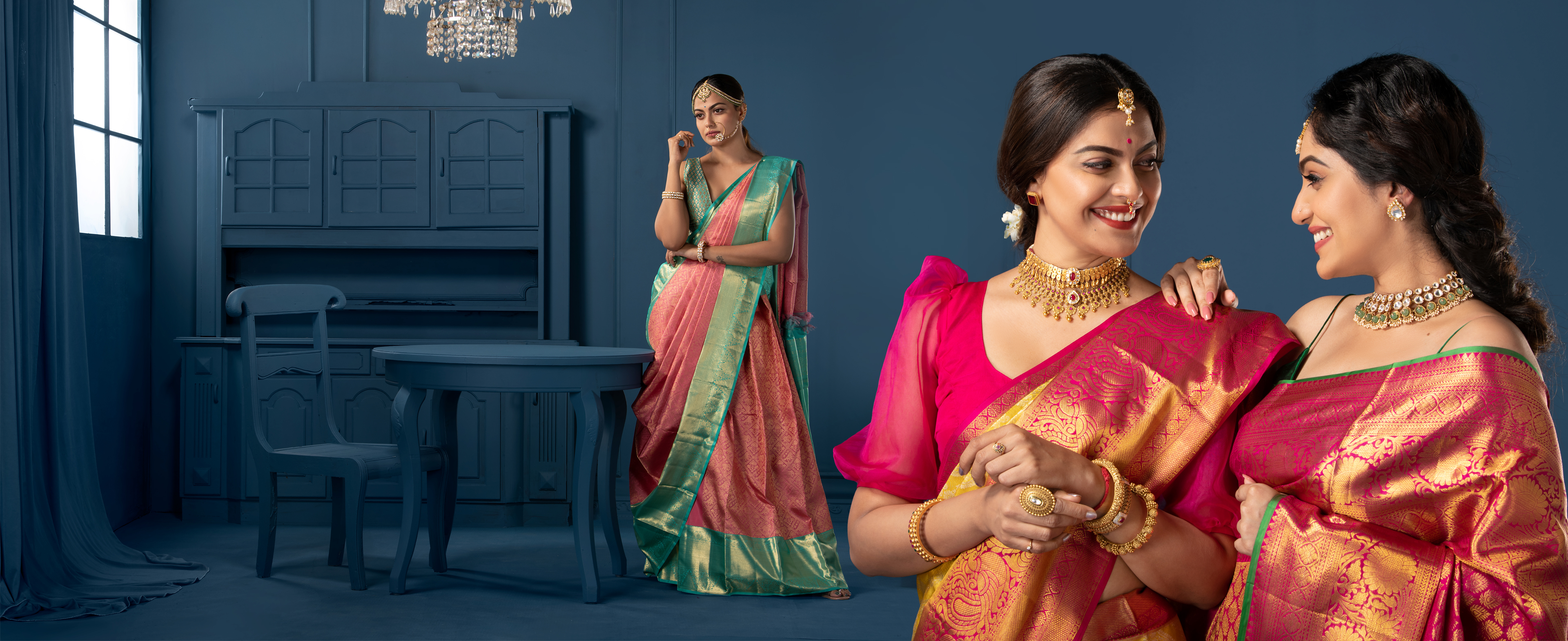
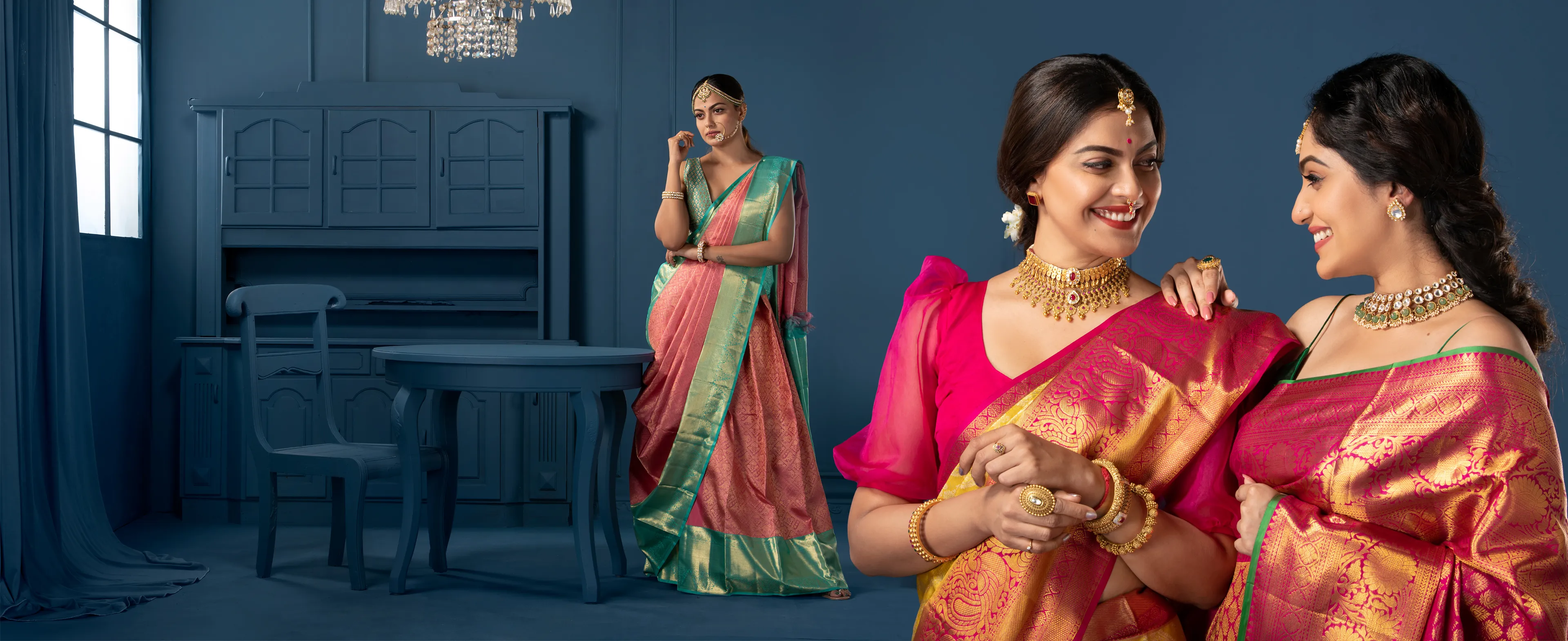
slider updated ,compression script

diff --git a/templates/app/home/kanchipuram.html b/templates/app/home/kanchipuram.html
@@ -1,32 +1,13 @@
 {% load static %}
-<div class="flex flex-col justify-center items-center p-4 my-8 mx-4">
-  <h1 class="text-3xl lg:text-4xl">KANCHIPURAM SILK</h1>
-<div class="carousel-container">
-  
-  <div class="carousel-slide">
-    <img src="{% static '/app/img/kanchipuram/1.jpg' %}" alt="">
-   <h1 class="text-2xl text-center">Pure Tissue Kanchipuram Silk</h1>
+<div class="flex flex-col justify-center items-center  my-8 mx-4">
+  <h1 class="text-2xl lg:text-4xl">KANCHPIURAM SILK</h1>
+  <div class="carousel-container">
+    {% for image in images_kanchipuram %}
+    <div class="carousel-slide border-2 flex flex-col justify-center rounded-sm items-center border-[#b18b2e] p-2">
+      <img src="{% static image.src %}" alt="" class="rounded-sm">
+      <h1 class="text-sm md:text-xs lg:text-sm text-center ">{{ image.name }}</h1>
+    </div>
+    {% endfor %}
   </div>
-  <div class="carousel-slide">
-    <img src="{% static '/app/img/kanchipuram/2.jpg' %}" alt="">
-   <h1 class="text-2xl text-center">Pure Organza Tissue Kanchipuram Silk </h1>
-  </div>
-  <div class="carousel-slide">
-    <img src="{% static '/app/img/kanchipuram/3.jpg' %}" alt="">
-   <h1 class="text-2xl text-center">  Pure Kanchipuram Silk</h1>
-  </div>
-  <div class="carousel-slide">
-    <img src="{% static '/app/img/kanchipuram/4.jpg' %}" alt="">
-   <h1 class="text-2xl text-center">Pure Designer Kanchipuram Silk</h1>
-  </div>
-  <div class="carousel-slide">
-    <img src="{% static '/app/img/kanchipuram/5.jpg' %}" alt="">
-   <h1 class="text-2xl text-center">Kovai Kanchipuram Silk</h1>
-  </div>
-  <div class="carousel-slide">
-    <img src="{% static '/app/img/kanchipuram/6.jpg' %}" alt="">
-   <h1 class="text-2xl text-center">Pure Kowai Kanchipuram Silk</h1>
-  </div>
-  
 </div>
-</div>
+

diff --git a/templates/app/home/occasional.html b/templates/app/home/occasional.html
@@ -1,28 +1,13 @@
 {% load static %}
-<div class="flex flex-col justify-center items-center p-4 my-8 mx-4">
-  <h1 class="text-3xl lg:text-4xl">OCCASIONAL WEAR SILK </h1>
-<div class="carousel-container">
-  
-  <div class="carousel-slide">
-    <img src="{% static '/app/img/occasional/1.jpg' %}" alt="">
-   <h1 class="text-2xl text-center"> Pure Tassac Silk</h1>
+<div class="flex flex-col justify-center items-center  my-8 mx-4">
+  <h1 class="text-2xl lg:text-4xl">OCCASIONAL WEAR SILK</h1>
+  <div class="carousel-container">
+    {% for image in images_occasional %}
+    <div class="carousel-slide border-2 flex flex-col justify-center rounded-sm items-center border-[#b18b2e] p-2">
+      <img src="{% static image.src %}" alt="" class="rounded-sm ">
+      <h1 class="text-sm">{{ image.name }}</h1>
+    </div>
+    {% endfor %}
   </div>
-  <div class="carousel-slide">
-    <img src="{% static '/app/img/occasional/2.jpg' %}" alt="">
-   <h1 class="text-2xl text-center">Pure Matka Silk</h1>
-  </div>
-  <div class="carousel-slide">
-    <img src="{% static '/app/img/occasional/6.jpg' %}" alt="">
-   <h1 class="text-2xl text-center">Pure Organza Silk</h1>
-  </div>
-  <div class="carousel-slide">
-    <img src="{% static '/app/img/occasional/4.jpg' %}" alt="">
-   <h1 class="text-2xl text-center"> Jute Silk Saree</h1>
-  </div>
-  <div class="carousel-slide">
-    <img src="{% static '/app/img/occasional/5.jpg' %}" alt="">
-   <h1 class="text-2xl text-center">Modal Silk Saree</h1>
-  </div>
-  
 </div>
-</div>
+

diff --git a/templates/app/home/occasional2.html b/templates/app/home/occasional2.html
@@ -1,21 +1,13 @@
 {% load static %}
-<div class="flex flex-col justify-center items-center p-6 my-8 mx-4">
-  <h1 class="text-3xl lg:text-4xl">OCCASIONAL AND REGULAR WEAR</h1>
-<div class="carousel-container">
-  
-  <div class="carousel-slide">
-    <img src="{% static '/app/img/pricecat/1.jpg' %}" alt="">
-   <h1 class="text-2xl text-center">Semi Silk</h1>
+<div class="flex flex-col justify-center items-center p-4 my-8 mx-4">
+  <h1 class="text-2xl lg:text-4xl">REGULAR WEAR</h1>
+  <div class="carousel-container">
+    {% for image in images_with_prices %}
+    <div class="carousel-slide border-2 flex flex-col justify-center rounded-sm items-center border-[#b18b2e] p-2">
+      <img src="{% static image.src %}" alt="" class="rounded-sm">
+      <h1 class="text-sm">{{ image.price_range }}</h1>
+    </div>
+    {% endfor %}
   </div>
-  <div class="carousel-slide">
-    <img src="{% static '/app/img/pricecat/2.jpg' %}" alt="">
-   <h1 class="text-2xl text-center">Semi Banarasi</h1>
-  </div>
-  <div class="carousel-slide">
-    <img src="{% static '/app/img/pricecat/2.jpg' %}" alt="">
-   <h1 class="text-2xl text-center">Regular Wear</h1>
-  </div>
-  
-  
 </div>
-</div>
+

diff --git a/templates/app/home/price_category.html b/templates/app/home/price_category.html
@@ -1,11 +1,11 @@
 {% load static %}
-<div class="flex flex-col justify-center items-center p-4 my-8 mx-4">
-  <h1 class="text-3xl lg:text-4xl">SHOP BY PRICE</h1>
+<div class="flex flex-col justify-center items-center  my-8 mx-4">
+  <h1 class="text-2xl lg:text-4xl">SHOP BY PRICE</h1>
   <div class="carousel-container">
     {% for image in images_with_prices %}
-    <div class="carousel-slide">
-      <img src="{% static image.src %}" alt="" class="max-w-sm border-4 border-gold">
-      <h1 class="text-2xl">{{ image.price_range }}</h1>
+    <div class="carousel-slide border-2 flex flex-col justify-center rounded-sm items-center border-[#b18b2e] p-2">
+      <img src="{% static image.src %}" alt="" class=" rounded-sm">
+      <h1 class="text-sm">{{ image.price_range }}</h1>
     </div>
     {% endfor %}
   </div>

diff --git a/static/app/css/input.css b/static/app/css/input.css
@@ -62,7 +62,7 @@
 }
 
 .carousel-container::-webkit-scrollbar {
-  height: 14px;
+  height: 5px;
   width: calc(100% - 48px);
 }
 
@@ -72,15 +72,17 @@
 
 .carousel-container::-webkit-scrollbar-thumb {
   background: #b18b2e;
+  border-radius: 10px;
+
 }
 
 .carousel-container::-webkit-scrollbar-track-piece:start {
-  background: #b18b2e;
+  background:#f3e2a9fb;
 }
 
 .carousel-slide {
-  flex: 1 0 30%;
-  aspect-ratio: 1;
+  flex: 1 0 15%;
+  /* aspect-ratio: 1; */
   flex-flow: column nowrap;
   display: flex;
   justify-content: center;
@@ -91,6 +93,6 @@
 
 @media (max-width: 600px) {
   .carousel-slide {
-    flex: 1 0 90%;
+    flex: 1 0 70%;
   }
 }

diff --git a/templates/app/index.html b/templates/app/index.html
@@ -7,7 +7,7 @@
     {% include 'app/home/price_category.html' %}
     {%include 'app/home/kanchipuram.html'%}
     {%include 'app/home/occasional.html'%}
-    {%include 'app/home/occasional2.html'%}
+
     </div>
     
 

diff --git a/app/views.py b/app/views.py
@@ -15,13 +15,35 @@ def index(request):
         {'src': 'app/img/pricecat/5.jpg', 'price_range': '40001-50000'},
         {'src': 'app/img/pricecat/6.jpg', 'price_range': '50001-60000'},
     ]
+
+    images_kanchipuram = [
+        {'src': 'app/img/kanchipuram/1.jpg', 'name': 'Pure Tissue Kanchipuram'},
+        {'src': 'app/img/kanchipuram/2.jpg', 'name': 'Pure Organza Tissue '},
+        {'src': 'app/img/kanchipuram/3.jpg', 'name': 'Pure Kanchipuram Silk'},
+        {'src': 'app/img/kanchipuram/4.jpg', 'name': 'Pure Designer Kanchipuram'},
+        {'src': 'app/img/kanchipuram/5.jpg', 'name': 'Korvai Kanchipuram '},
+        {'src': 'app/img/kanchipuram/6.jpg', 'name': 'Pure Kanchipuram Soft'},
+    ]
+
+    images_occasional = [
+        {'src': 'app/img/occasional/1.jpg', 'name': 'Pure Tussac Silk'},
+        {'src': 'app/img/occasional/2.jpg', 'name': 'Pure Matka Silk '},
+        {'src': 'app/img/occasional/3.jpg', 'name': 'Pure Organza Silk'},
+        {'src': 'app/img/occasional/4.jpg', 'name': 'Jute Silk'},
+        {'src': 'app/img/occasional/5.jpg', 'name': 'Modal Silk'},
+    ]
+
     categories = Category.objects.all()
     products = Product.objects.all()
     return render(request, 'app/index.html', {
         'categories': categories,
         'products': products,
-        'images_with_prices': images_with_prices
+        'images_with_prices': images_with_prices,
+        'images_kanchipuram': images_kanchipuram,
+        'images_occasional': images_occasional
     })
+
+
 
 
 def price_category(request, a, b):

diff --git a/app/management/commands/compress.py b/app/management/commands/compress.py
@@ -1,0 +1,30 @@
+import os
+from PIL import Image
+
+from django.conf import settings
+from django.core.management.base import BaseCommand
+
+
+class Command(BaseCommand):
+    help = 'Compress all images from static folder to WebP'
+
+    def handle(self, *args, **kwargs):
+        static_dir = settings.STATIC_ROOT  # Assuming your static files are stored in STATIC_ROOT
+
+        for root, dirs, files in os.walk(static_dir):
+            for file in files:
+                if file.lower().endswith(('.png', '.jpg', '.jpeg')):
+                    image_path = os.path.join(root, file)
+
+                    try:
+                        with Image.open(image_path) as img:
+                            output_path = image_path.split('.')[0] + '.webp'
+                            img.save(output_path, 'webp', quality=80)
+                            os.remove(image_path)  # Remove the original image file
+                            os.rename(output_path, image_path)  # Rename the WebP file to original name
+                    except Exception as e:
+                        self.stdout.write(self.style.ERROR(f"Error processing {image_path}: {e}"))
+                    else:
+                        self.stdout.write(self.style.SUCCESS(f"Successfully converted {image_path} to WebP"))
+
+        self.stdout.write(self.style.SUCCESS('All images compressed successfully'))
